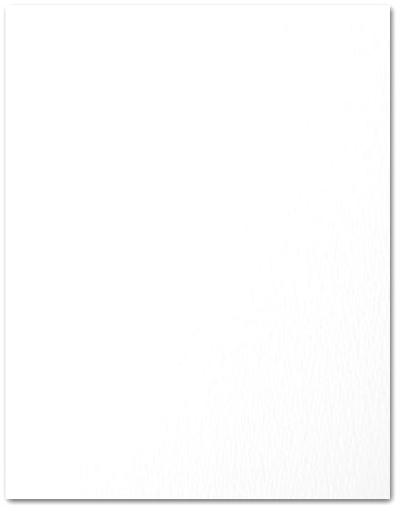
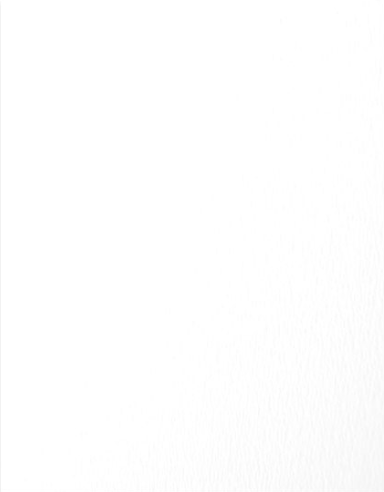
added rendering of papers, modified config, cleaned up source images

Changed region(s): [[0.0, 0.0, 1.0, 1.0]]

diff --git a/create_preview/__init__.py b/create_preview/__init__.py
@@ -1,6 +1,6 @@
 from flask import Flask, Response, request
 import base64
-from create_preview.image_creator.app import ImageCreator, CONFIG_DATA
+from create_preview.image_creator.app import ImageCreator
 import json
 from create_preview.validation_schema import ImagePreviewInputSchema
 
@@ -12,24 +12,25 @@ def home():
 
 @APP.route('/generate-image', methods=['POST'])
 def generate_image():
-    values = request.json
+    # First set of validation
     input_schema = ImagePreviewInputSchema()
     request_errors = input_schema.validate(request.json)
     
     if request_errors:
         return Response(json.dumps(request_errors), mimetype="application/json", status=400)
 
+    # Create new ImageCreator
     preview = ImageCreator()
     factory_errors = preview.set_all(request.json)
 
+    # Throw any errors from ImageCreator
     if factory_errors["error"]:
         return Response(json.dumps(factory_errors["statuses"]), mimetype="application/json", status=400)
 
+    preview_image = preview.generate_image()
+    print(preview_image)
 
-    values = request.json
-    print(values)
-
-    return Response(status=200)
+    return Response(preview_image, status=200)
 
 def create_app():
     return APP

diff --git a/create_preview/image_creator/app.py b/create_preview/image_creator/app.py
@@ -131,6 +131,13 @@ class ImageCreator(object):
 
     # Create image using values
     def generate_image(self):
-        print("This is where the image is generated")        
+        payload = "This is where the image is generated"
+        image_size = data["paper_size"][self.paper_type]['w'], data["paper_size"][self.paper_type]['h']
+        background = Image.open(self.paper_color, 'r')
+        background = background.resize(image_size)
+        canvas = Image.new('CMYK', image_size)
+        canvas.paste(background)
+        canvas.show()
+        return payload
         
 
